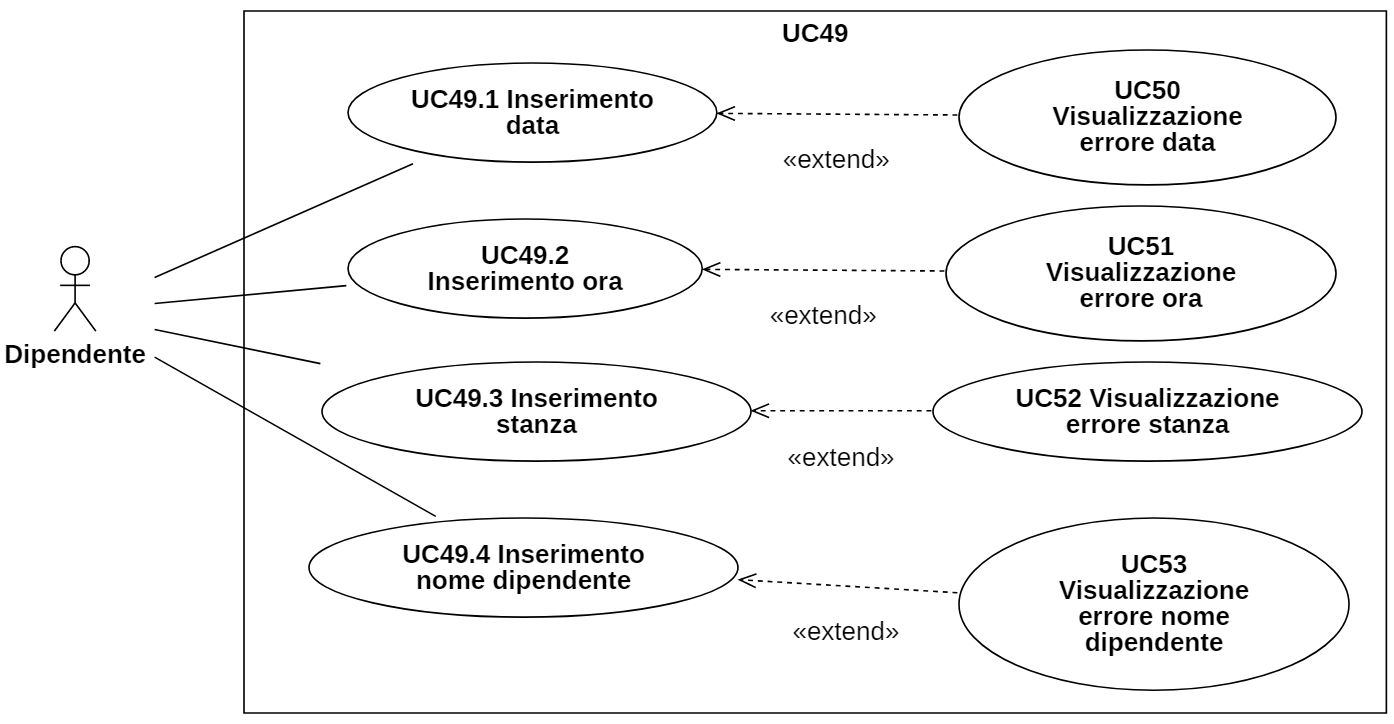
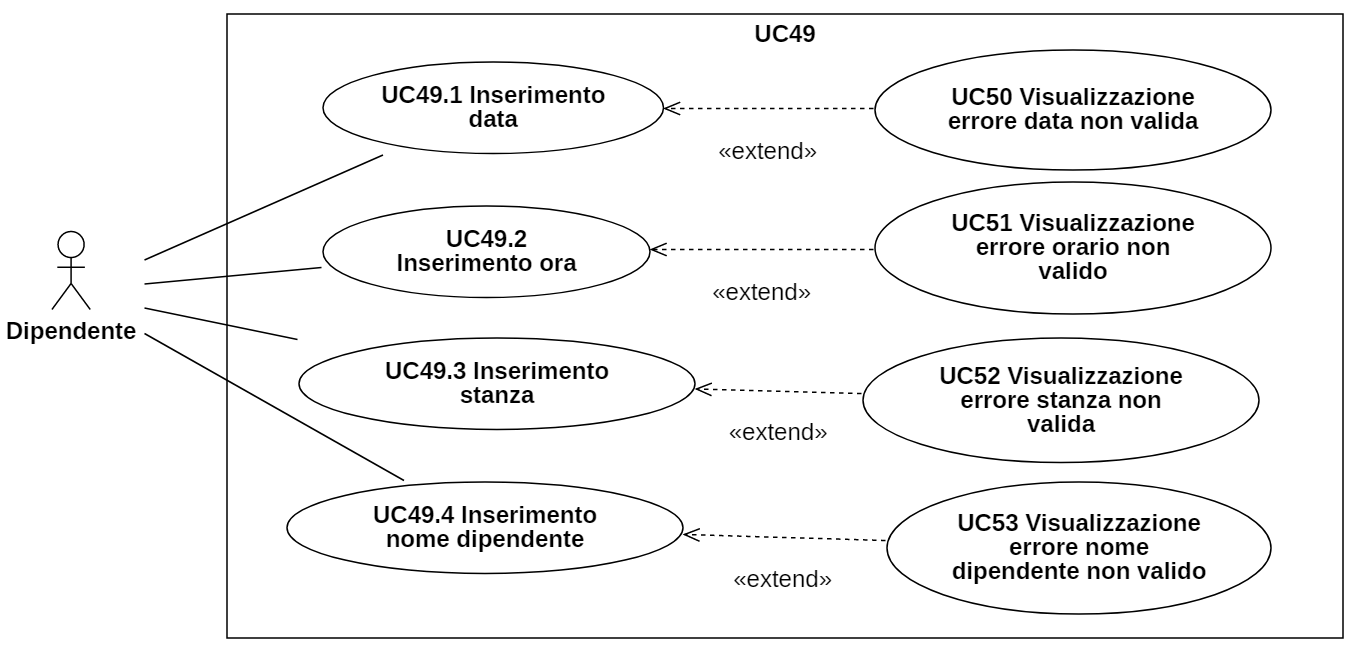
modificati nomi UC sistemato UC42

diff --git a/esterni/AnalisiDeiRequisiti/res/sections/casiUso.tex b/esterni/AnalisiDeiRequisiti/res/sections/casiUso.tex
@@ -1110,6 +1110,10 @@ In questa sezione sono riportati tutti i casi d'uso individuati, ordinati per at
 	\item\textbf{Scenario principale:} l’utente appoggia lo smartphone sul tag NFC e segnala in questo modo la propria occupazione in tempo reale.
 	\item\textbf{Precondizione:} l’utente occupa una postazione e ha attivato nel proprio smartphone la possibilità di effettuare scansioni con tag NFC.
 	\item\textbf{Postcondizione:} l’utente segnala in tempo reale l'occupazione alla postazione.
+	\item\textbf{Estensioni:} 
+	\begin{itemize}
+		\item[$-$] visualizzazione errore fine prematura occupazione: se l'utente alza lo smartphone dal tag NFC e abbandona la postazione in modo prematuro rispetto al tempo di fine prenotazione, dopo mezz'ora viene visualizzato un messaggio di errore e avviene la disdetta automatica della prenotazione per il tempo rimanente (UC43);
+	\end{itemize}
 \end{itemize}
 
 \subsubsection{ UC42.2 - Registrazione presenza}
@@ -1122,10 +1126,7 @@ In questa sezione sono riportati tutti i casi d'uso individuati, ordinati per at
 	\item\textbf{Postcondizione:} l'azione della precondizione viene registrata.
 	\item\textbf{Estensioni:} 
 	\begin{itemize}
-		\item[$-$] visualizzazione errore fine prematura occupazione: se l'utente alza lo smartphone dal tag NFC e abbandona la postazione in modo prematuro rispetto al tempo di fine prenotazione, dopo mezz'ora viene visualizzato un messaggio di errore e avviene la disdetta automatica della prenotazione per il tempo rimanente (UC43);
-	\end{itemize}
-	\begin{itemize}
-	\item[$-$] visualizzazione errore postazione non igienizzata: se la postazione non è pulita viene segnalato all'utente di igienizzarla (UC45).
+		\item[$-$] visualizzazione errore postazione non igienizzata: se la postazione non è pulita viene segnalato all'utente di igienizzarla (UC45).
 	\end{itemize}
 \end{itemize}
 
@@ -1220,7 +1221,7 @@ In questa sezione sono riportati tutti i casi d'uso individuati, ordinati per at
 		\item[$-$] l’utente inserisce una data non valida (UC50).
 	\end{itemize}
 \end{itemize}
-\subsubsection{ UC50 - Visualizzazione errore: data non valida  }
+\subsubsection{ UC50 - Visualizzazione errore data non valida  }
 \begin{itemize}
 	\item\textbf{Attori Primari:} dipendente.
 	\item\textbf{Descrizione:} l’utente ha compilato un campo per la data, ma è in un formato non corretto.
@@ -1245,7 +1246,7 @@ In questa sezione sono riportati tutti i casi d'uso individuati, ordinati per at
 		\item[$-$] l’utente inserisce un orario non valido (UC51).
 	\end{itemize}
 \end{itemize}
-\subsubsection{ UC51 - Visualizzazione errore: orario non valido }
+\subsubsection{ UC51 - Visualizzazione errore orario non valido }
 \begin{itemize}
 	\item\textbf{Attori Primari:} dipendente.
 	\item\textbf{Descrizione:} l’utente ha compilato un campo per l'orario, ma è in un formato non corretto.
@@ -1270,7 +1271,7 @@ In questa sezione sono riportati tutti i casi d'uso individuati, ordinati per at
 		\item[$-$] l’utente inserisce una stanza non valida (UC52).
 	\end{itemize}
 \end{itemize}
-\subsubsection{ UC52 - Visualizzazione errore: stanza non valida }
+\subsubsection{ UC52 - Visualizzazione errore stanza non valida }
 \begin{itemize}
 	\item\textbf{Attori Primari:} dipendente.
 	\item\textbf{Descrizione:} l’utente ha compilato un campo per l'identificativo della stanza, ma è in un formato non corretto.
@@ -1296,7 +1297,7 @@ In questa sezione sono riportati tutti i casi d'uso individuati, ordinati per at
 		\item[$-$] l’utente inserisce un nome non valido (UC53).
 	\end{itemize}
 \end{itemize}
-\subsubsection{ UC53 - Visualizzazione errore: nome dipendente non valido }
+\subsubsection{ UC53 - Visualizzazione errore nome dipendente non valido }
 \begin{itemize}
 	\item\textbf{Attori Primari:} dipendente.
 	\item\textbf{Descrizione:} l’utente ha compilato un campo per il nome e il cognome del dipendente a cui si vuole sedere vicino, ma è in un formato non corretto.
